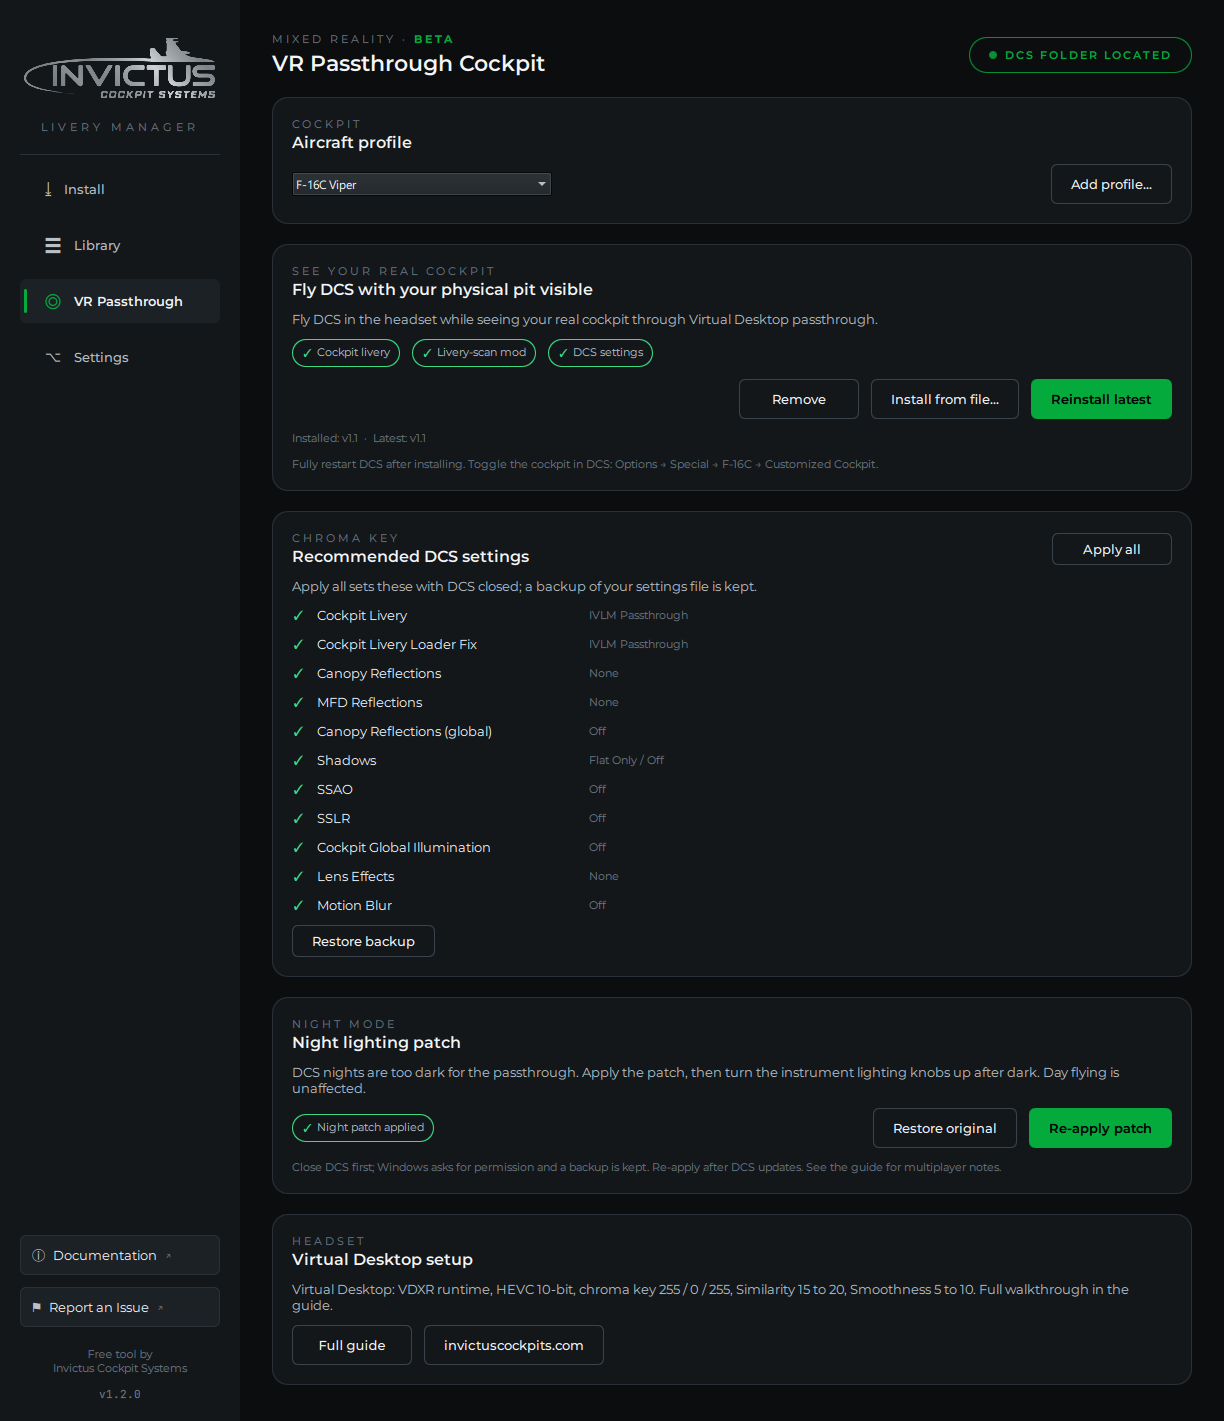
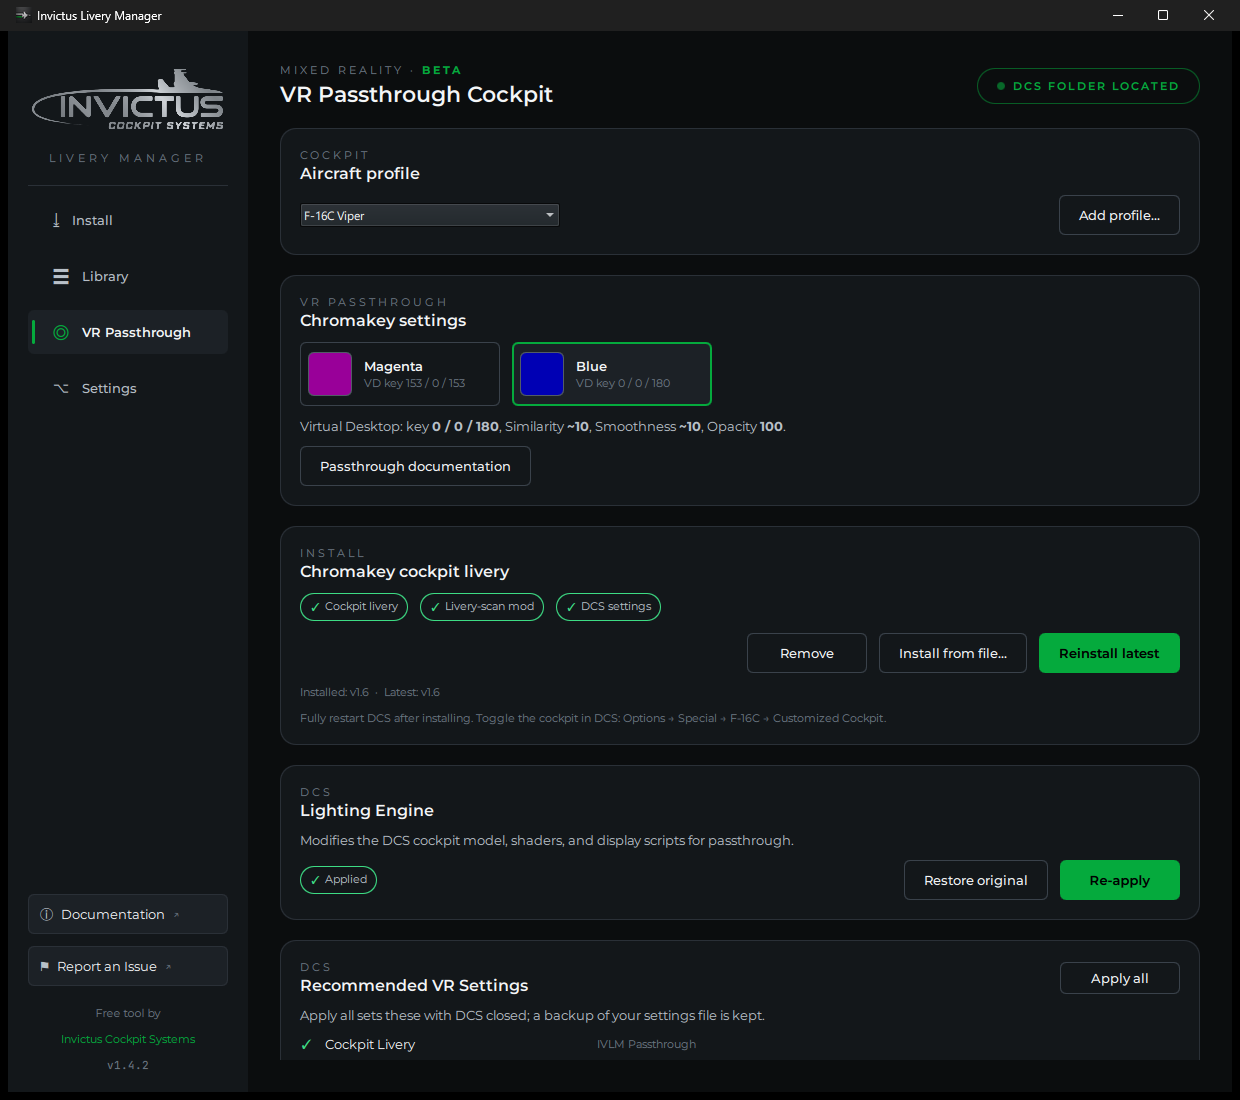
VR guide: current page screenshot, blue key values at 0/0/180 (Similarity 10, Smoothness 10), trim-markings note dropped

diff --git a/docs/livery-manager/user-guide/vr-passthrough.md b/docs/livery-manager/user-guide/vr-passthrough.md
@@ -175,8 +175,8 @@ key, and again in a popup after the Lighting Engine is applied.
 | Setting | Magenta | Blue |
 | --- | --- | --- |
 | Key color (red, green, blue) | 153, 0, 153 | 0, 0, 180 |
-| Similarity | about 17 percent | about 9 percent |
-| Smoothness | about 12 percent | about 9 percent |
+| Similarity | about 17 percent | about 10 percent |
+| Smoothness | about 12 percent | about 10 percent |
 | Opacity | 100 percent | 100 percent |
 
 Both sets assume the Lighting Engine is applied, since its shaders pin
@@ -263,8 +263,6 @@ improvements ship as soon as they're ready.
   DCS update restores the stock display scripts. Click **Apply**.
 - **A multiplayer server rejects you.** Use **Restore original** under
   Lighting Engine, fly, then apply it again afterward.
-- **Thin dark trim markings on some panel edges** are a known cosmetic
-  residual of the current livery and are purely visual.
 - **A thin pink fringe at the passthrough boundary** comes from the
   headset video stream's color compression, not from DCS: video codecs
   store color at reduced resolution, smearing the key slightly across
